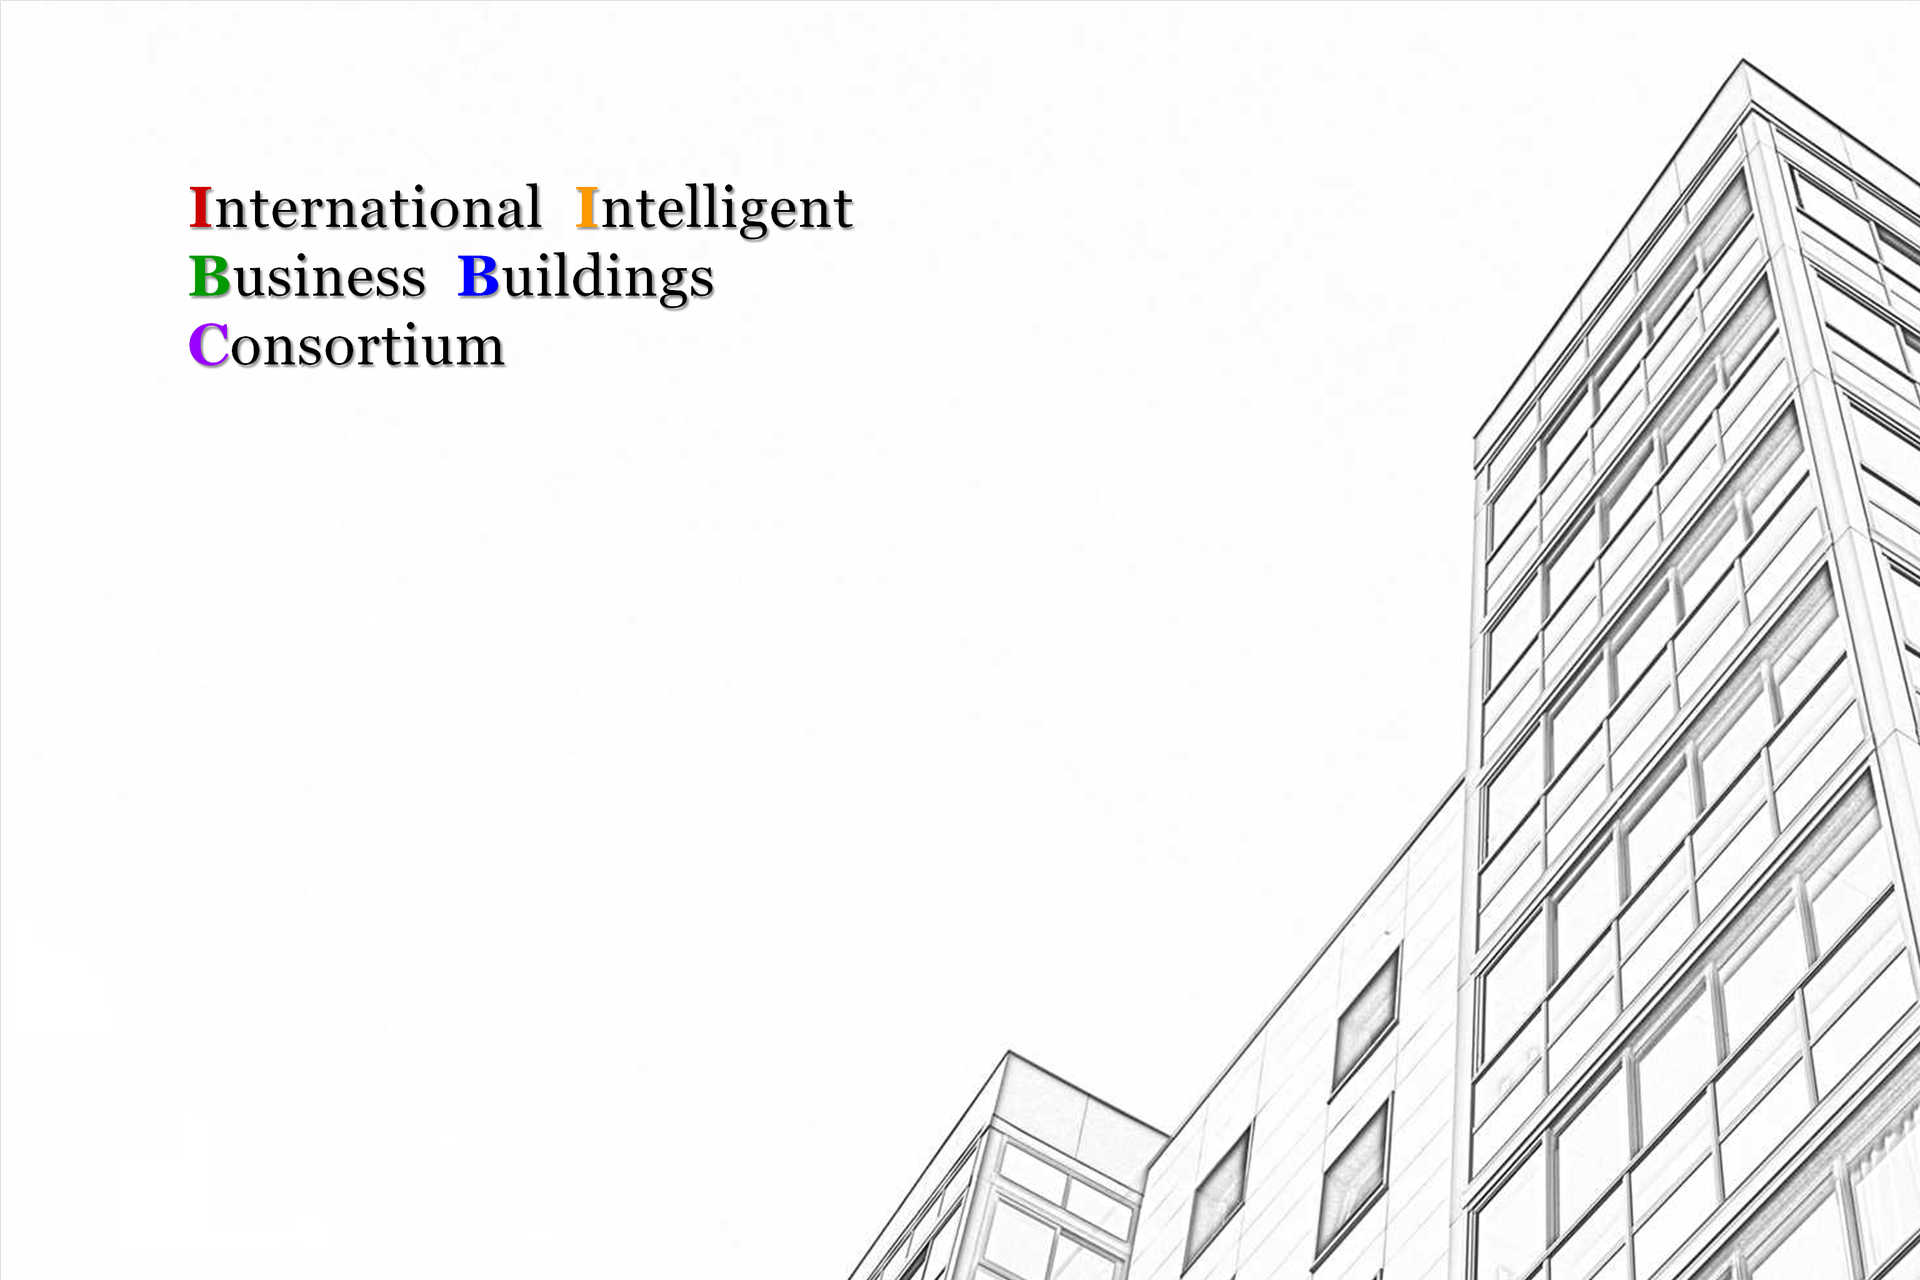
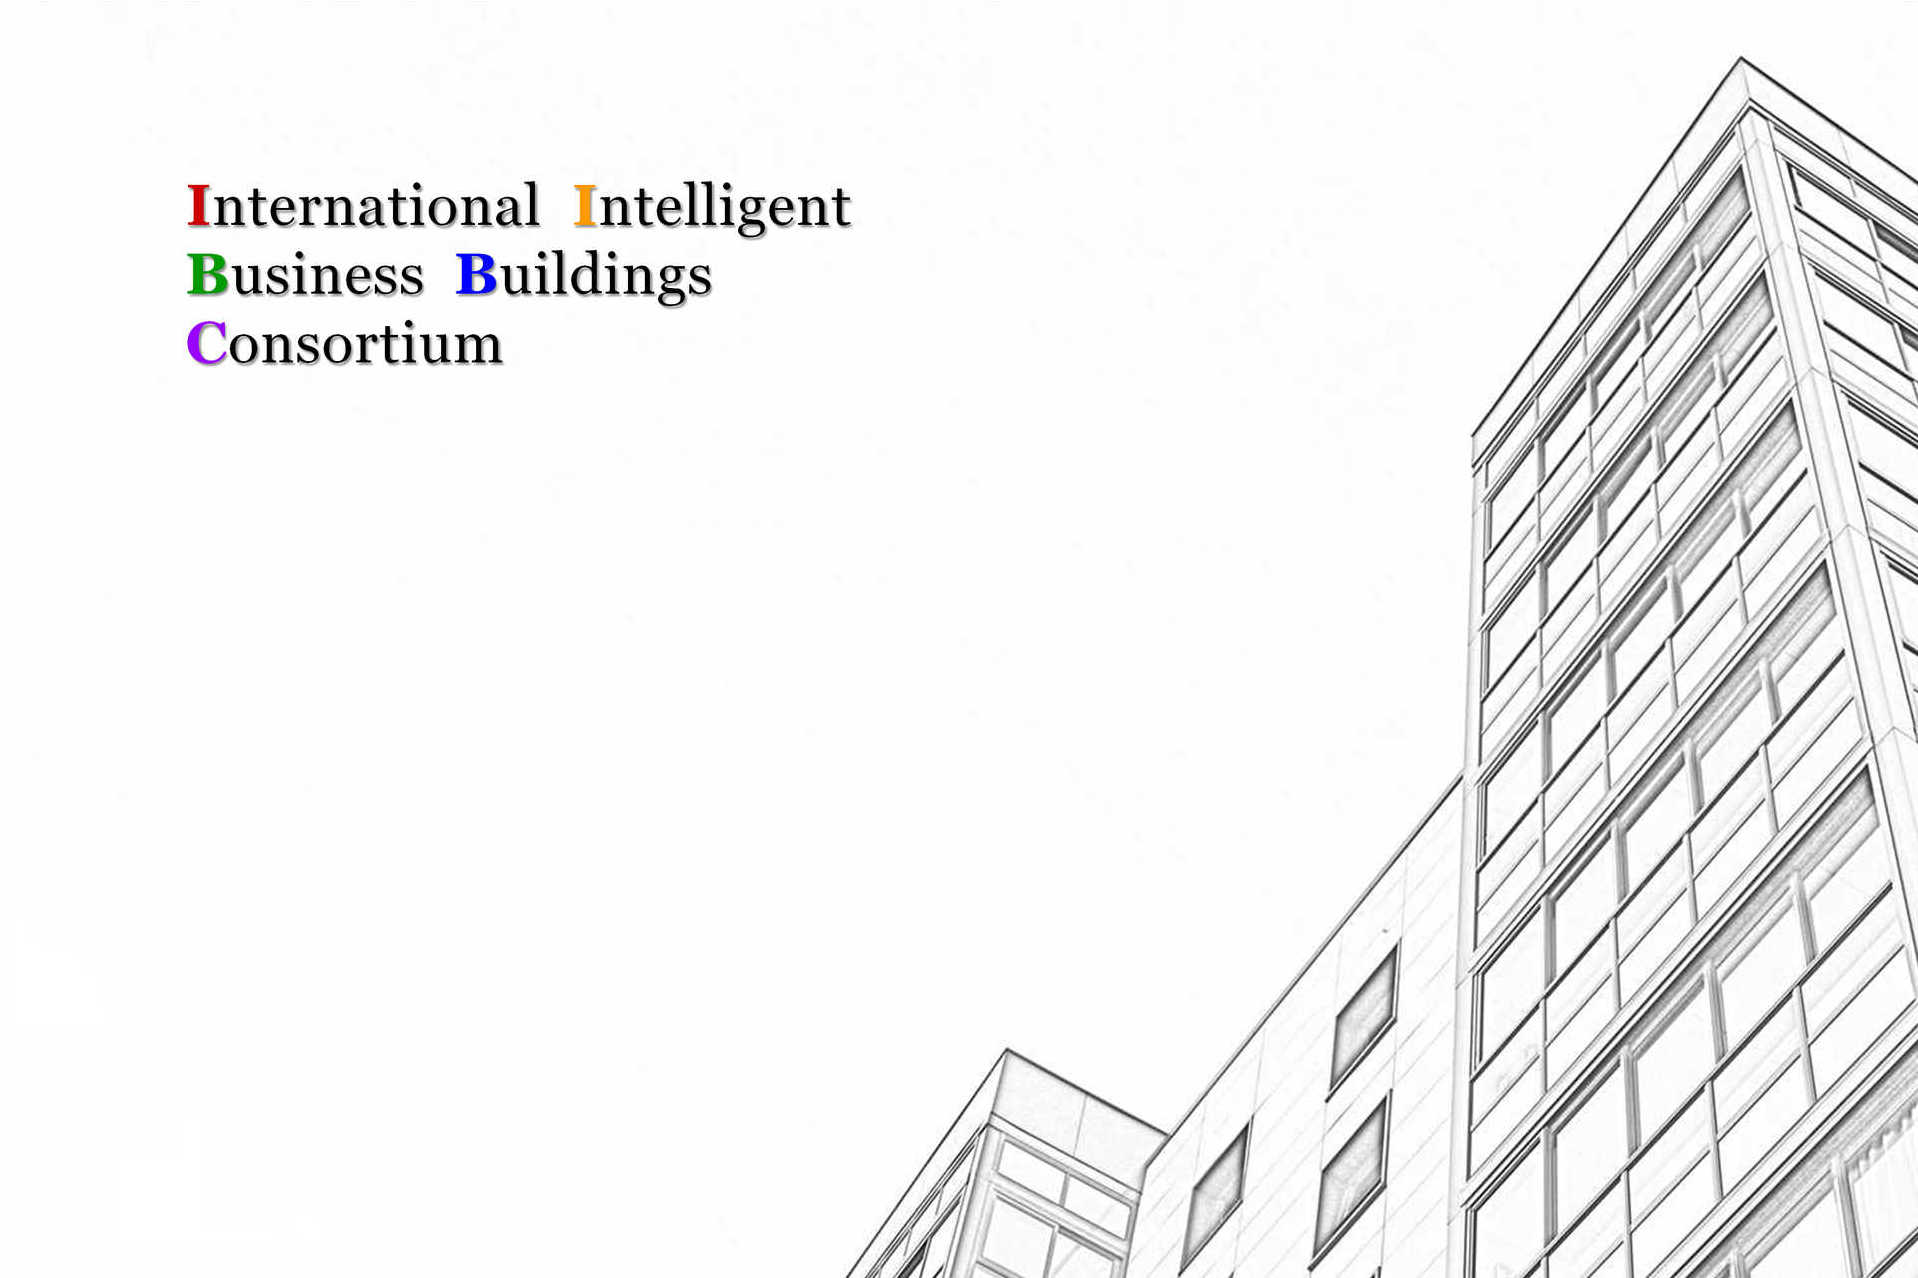
update

diff --git a/i.htm b/i.htm
@@ -1,7 +1,10 @@
-<!DOCTYPE html PUBLIC "-//W3C//DTD XHTML 1.0 Transitional//EN" "https://www.w3.org/TR/xhtml1/DTD/xhtml1-transitional.dtd">
-<html xmlns="https://www.w3.org/1999/xhtml">
+<html>
  <head>
   <title>IIBBC</title>
  </head>
- <a href="https://xiaoyaodao.com"> <img src="i.jpg" alt="IIBBC.COM" title="IIBBC.COM" width="100%"/> </a>
+ <body>
+ 	<div style="text-align:center">
+   <a href="https://xiaoyaodao.com"> <img src="i.jpg" alt="IIBBC.COM" title="IIBBC.COM" height="100%" /> </a>
+  </div>
+ </body>
 </html>
